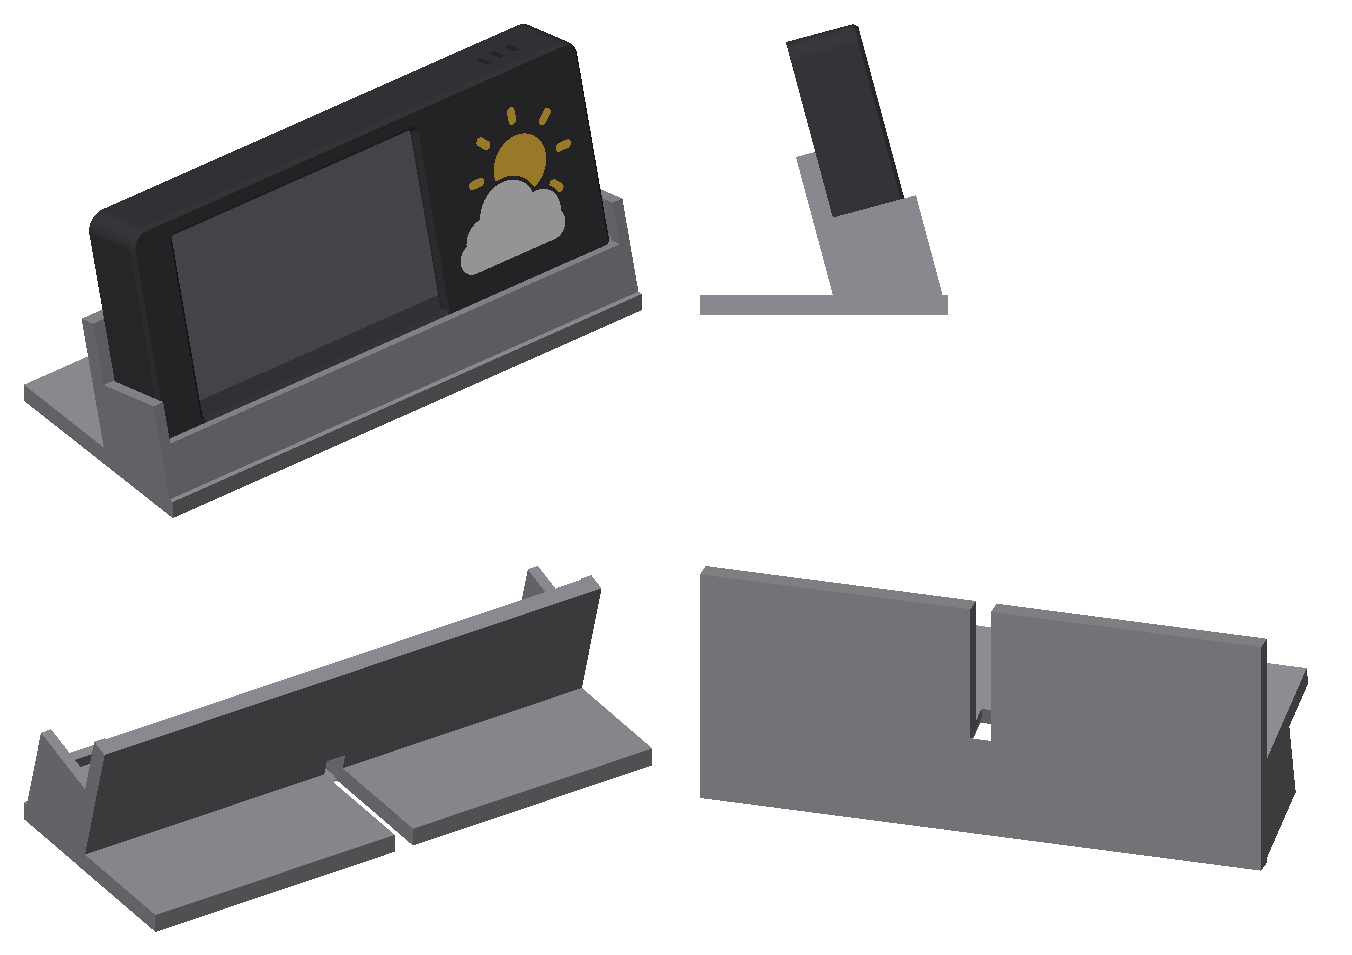
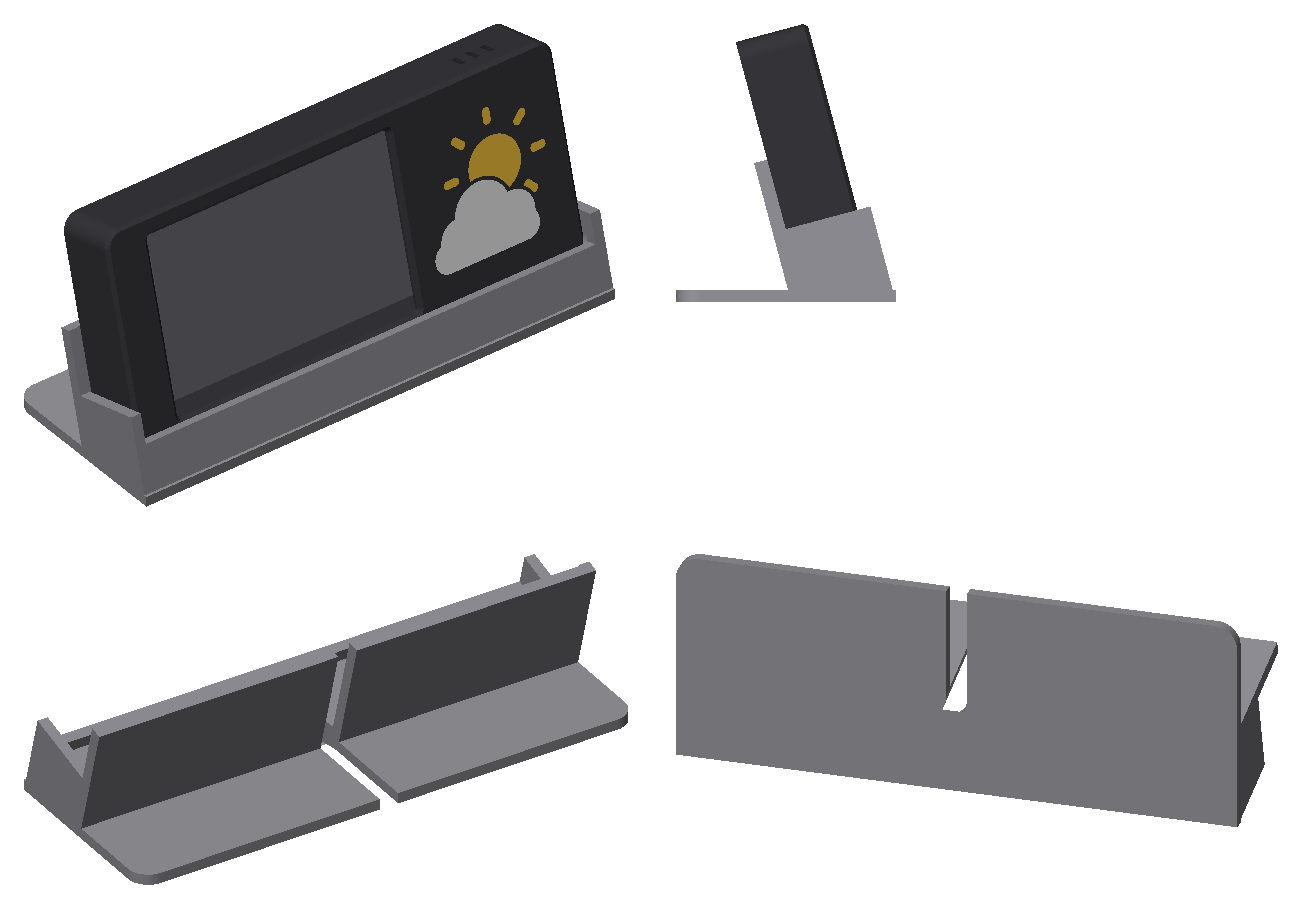
Open the stand's cable channel from above, and slim the stand down
A slot through the rest keeps the channel open all along, so the cable lies
in from above and no plug has to fit through. Lip, rest, side walls and foot
are 3 mm now, and the base under the case is just as tall as the channel
needs.

diff --git a/enclosure/stand.py b/enclosure/stand.py
@@ -9,6 +9,8 @@ image), a rest behind, and walls left and right that hold it from sliding
 sideways. The cable leaves the case at the bottom right and
 lies in a channel in the cradle's floor, hidden under the case; in the
 middle it turns toward the back in a wide curve and leaves under the foot.
+Where the channel passes the rest, a slot goes through it: the channel is
+open from above all along, so no plug has to go through.
 
     uv run --no-project --python 3.12 --with build123d python enclosure/stand.py
 
@@ -26,24 +28,33 @@ import enclosure as case
 OUT = Path(__file__).resolve().parent
 
 TILT = 15.0  # degrees back from upright
-FIT = 0.4  # case to cradle, front and back
-FLOOR = 16.0  # under the case's front edge, along the case: room for the channel
-LIP_H, LIP_T = 3.5, 3.0  # in front of the case: below the image's edge
-REST_H, REST_T = 32.0, 5.0  # behind the case
-SIDE_H, SIDE_T = 15.0, 3.0  # walls left and right: the case can't slide out sideways
-FOOT_DEPTH, FOOT_T = 62.0, 5.0  # from the front, so tapping doesn't tip it over
+FIT = 0.4  # case to cradle, all round
+WALL = 3.0  # lip, rest, side walls and foot
+LIP_H = 3.5  # in front of the case: below the image's edge
+REST_H = 30.0  # behind the case
+SIDE_H = 12.0  # walls left and right: the case can't slide out sideways
+FOOT_DEPTH = 55.0  # from the front, so tapping doesn't tip it over
+FOOT_CORNER = 6.0
 
 CHANNEL_W = case.CABLE_D + 0.8
-CHANNEL_DEPTH = 9.0  # the cable bends from down into the channel: room for it
+CHANNEL_DEPTH = case.CABLE_D + 2.4  # the cable bends from down into the channel
+CHANNEL_FLOOR = 2.0  # under the channel, at its lowest under the case
 TURN = 12.0  # the channel's turn toward the back
+OPEN_FROM = 2.0  # behind this (t, from the case's back), the slot through the rest
+# Where the case's cable leaves it: x from its left edge, t from its back.
+CABLE_X = case.CAV_W - case.CABLE_FROM_WALL - case.CABLE_D / 2 - case.X0
+CABLE_T = case.LID + case.CABLE_D / 2 + 1.0
 
 T = radians(TILT)
+# Under the case's front edge, along the case: just enough for the channel
+# and the floor under it.
+FLOOR = (CHANNEL_FLOOR + CHANNEL_DEPTH * cos(T) - CABLE_T * sin(T) + (case.D + FIT + WALL) * sin(T)) / cos(T)
 UP = (0.0, sin(T), cos(T))  # along the case, toward its top
 OUT_DIR = (0.0, -cos(T), sin(T))  # out of the case's front
 # The cradle's own frame: x along the case's width, y up the case, z out of
 # its front; origin at the case's bottom back left edge. Placed so the front
 # edge of the floor sits on the table at y = 0.
-s0, t0 = -FLOOR, case.D + LIP_T
+s0, t0 = -FLOOR, case.D + FIT + WALL
 ORIGIN = tuple(-(s0 * UP[i] + t0 * OUT_DIR[i]) for i in range(3))
 CRADLE = Plane(origin=ORIGIN, x_dir=(1, 0, 0), z_dir=OUT_DIR)
 
@@ -54,25 +65,25 @@ def local_box(x0, x1, y0, y1, z0, z1):
 
 def stand():
     w, d = case.W, case.D
-    x0, x1 = -FIT - SIDE_T, w + FIT + SIDE_T
-    body = local_box(x0, x1, -FLOOR, SIDE_H, -REST_T, d + LIP_T)
-    body += local_box(x0, x1, SIDE_H - 1, REST_H, -REST_T, 0)
-    body += Pos(x0, 0, 0) * Box(x1 - x0, FOOT_DEPTH, FOOT_T, align=(Align.MIN, Align.MIN, Align.MIN))
+    x0, x1 = -FIT - WALL, w + FIT + WALL
+    body = local_box(x0, x1, -FLOOR, SIDE_H, -FIT - WALL, d + FIT + WALL)
+    body += local_box(x0, x1, SIDE_H - 1, REST_H, -FIT - WALL, 0)
+    foot = RectangleRounded(x1 - x0, FOOT_DEPTH + FOOT_CORNER, FOOT_CORNER, align=(Align.MIN, Align.MIN))
+    body += Pos(x0, -FOOT_CORNER, 0) * extrude(foot, WALL)
     # Flat on the table.
-    body &= Pos(x0, 0, 0) * Box(x1 - x0, 500, 500, align=(Align.MIN, Align.CENTER, Align.MIN))
+    body &= Pos(x0, 0, 0) * Box(x1 - x0, 500, 500, align=(Align.MIN, Align.MIN, Align.MIN))
 
     # The case, with its rounded corners and a little play all round; above
     # the lip, its front.
     outline = RectangleRounded(w + 2 * FIT, 400, case.CORNER + FIT, align=(Align.MIN, Align.MIN))
     body -= CRADLE * Pos(-FIT, 0, -FIT) * extrude(outline, d + 2 * FIT)
-    body -= local_box(-FIT, w + FIT, LIP_H, 200, d, d + LIP_T + 1)
+    body -= local_box(-FIT, w + FIT, LIP_H, 200, d, d + FIT + WALL + 1)
 
     # The channel: from under the case's cable exit along the floor to the
     # middle, then toward the back, down the floor's slope and out under the
     # foot. The case's cable leaves at x (from its left edge) and t (from
     # its back), going down.
-    cable_x = case.CAV_W - case.CABLE_FROM_WALL - case.CABLE_D / 2 - case.X0
-    cable_t = case.LID + case.CABLE_D / 2 + 1.0
+    cable_x, cable_t = CABLE_X, CABLE_T
     mid = w / 2
     path = FilletPolyline((cable_x + 0.6, cable_t), (mid, cable_t), (mid, -200), radius=TURN)
     channel = extrude(trace(path, CHANNEL_W), CHANNEL_DEPTH + 1)
@@ -80,6 +91,17 @@ def stand():
     # from just above the floor down into it.
     floor = Plane(origin=CRADLE.origin + CRADLE.y_dir * 1.0, x_dir=(1, 0, 0), z_dir=-CRADLE.y_dir)
     body -= floor * channel
+    # Under the rest the channel would be a tunnel, and no plug fits through
+    # it: a slot through the rest opens it from above, so the cable lies in
+    # from above all along.
+    height = CHANNEL_DEPTH + REST_H + 10
+    slot = extrude(trace(path, CHANNEL_W), -height) & Pos(-50, -400, -height - 1) * Box(
+        w + 100, 400 + OPEN_FROM, height + 2, align=(Align.MIN, Align.MIN, Align.MIN)
+    )
+    channel_bottom = Plane(
+        origin=CRADLE.origin - CRADLE.y_dir * CHANNEL_DEPTH, x_dir=(1, 0, 0), z_dir=-CRADLE.y_dir
+    )
+    body -= channel_bottom * slot
     # Out under the foot, from where the sloping channel reaches the table.
     reach = CRADLE.from_local_coords((mid, -CHANNEL_DEPTH, cable_t - TURN)).Y
     body -= Pos(mid - CHANNEL_W / 2, reach, -1) * Box(

diff --git a/README.md b/README.md
@@ -131,7 +131,7 @@ To stand the display on a desk instead of hanging it, print `enclosure/stand.stl
 - A rest behind supports it, and a foot keeps it from tipping when you tap the screen.
 - Walls on the left and right follow the case's rounded corners, with 0.4 mm of play, so it can't slide sideways.
 - The cable leaves the case at the bottom right and lies in a channel in the cradle's floor, hidden under the case. In the middle, the channel turns toward the back in a wide curve and runs out under the foot.
-- Lay the cable into the channel before putting the case in. It leaves at the back, in the middle.
+- Lay the cable into the channel before putting the case in. A slot through the rest keeps the channel open from above all along, so no plug has to go through. It leaves at the back, in the middle.
 
 ### Changing the case
 
